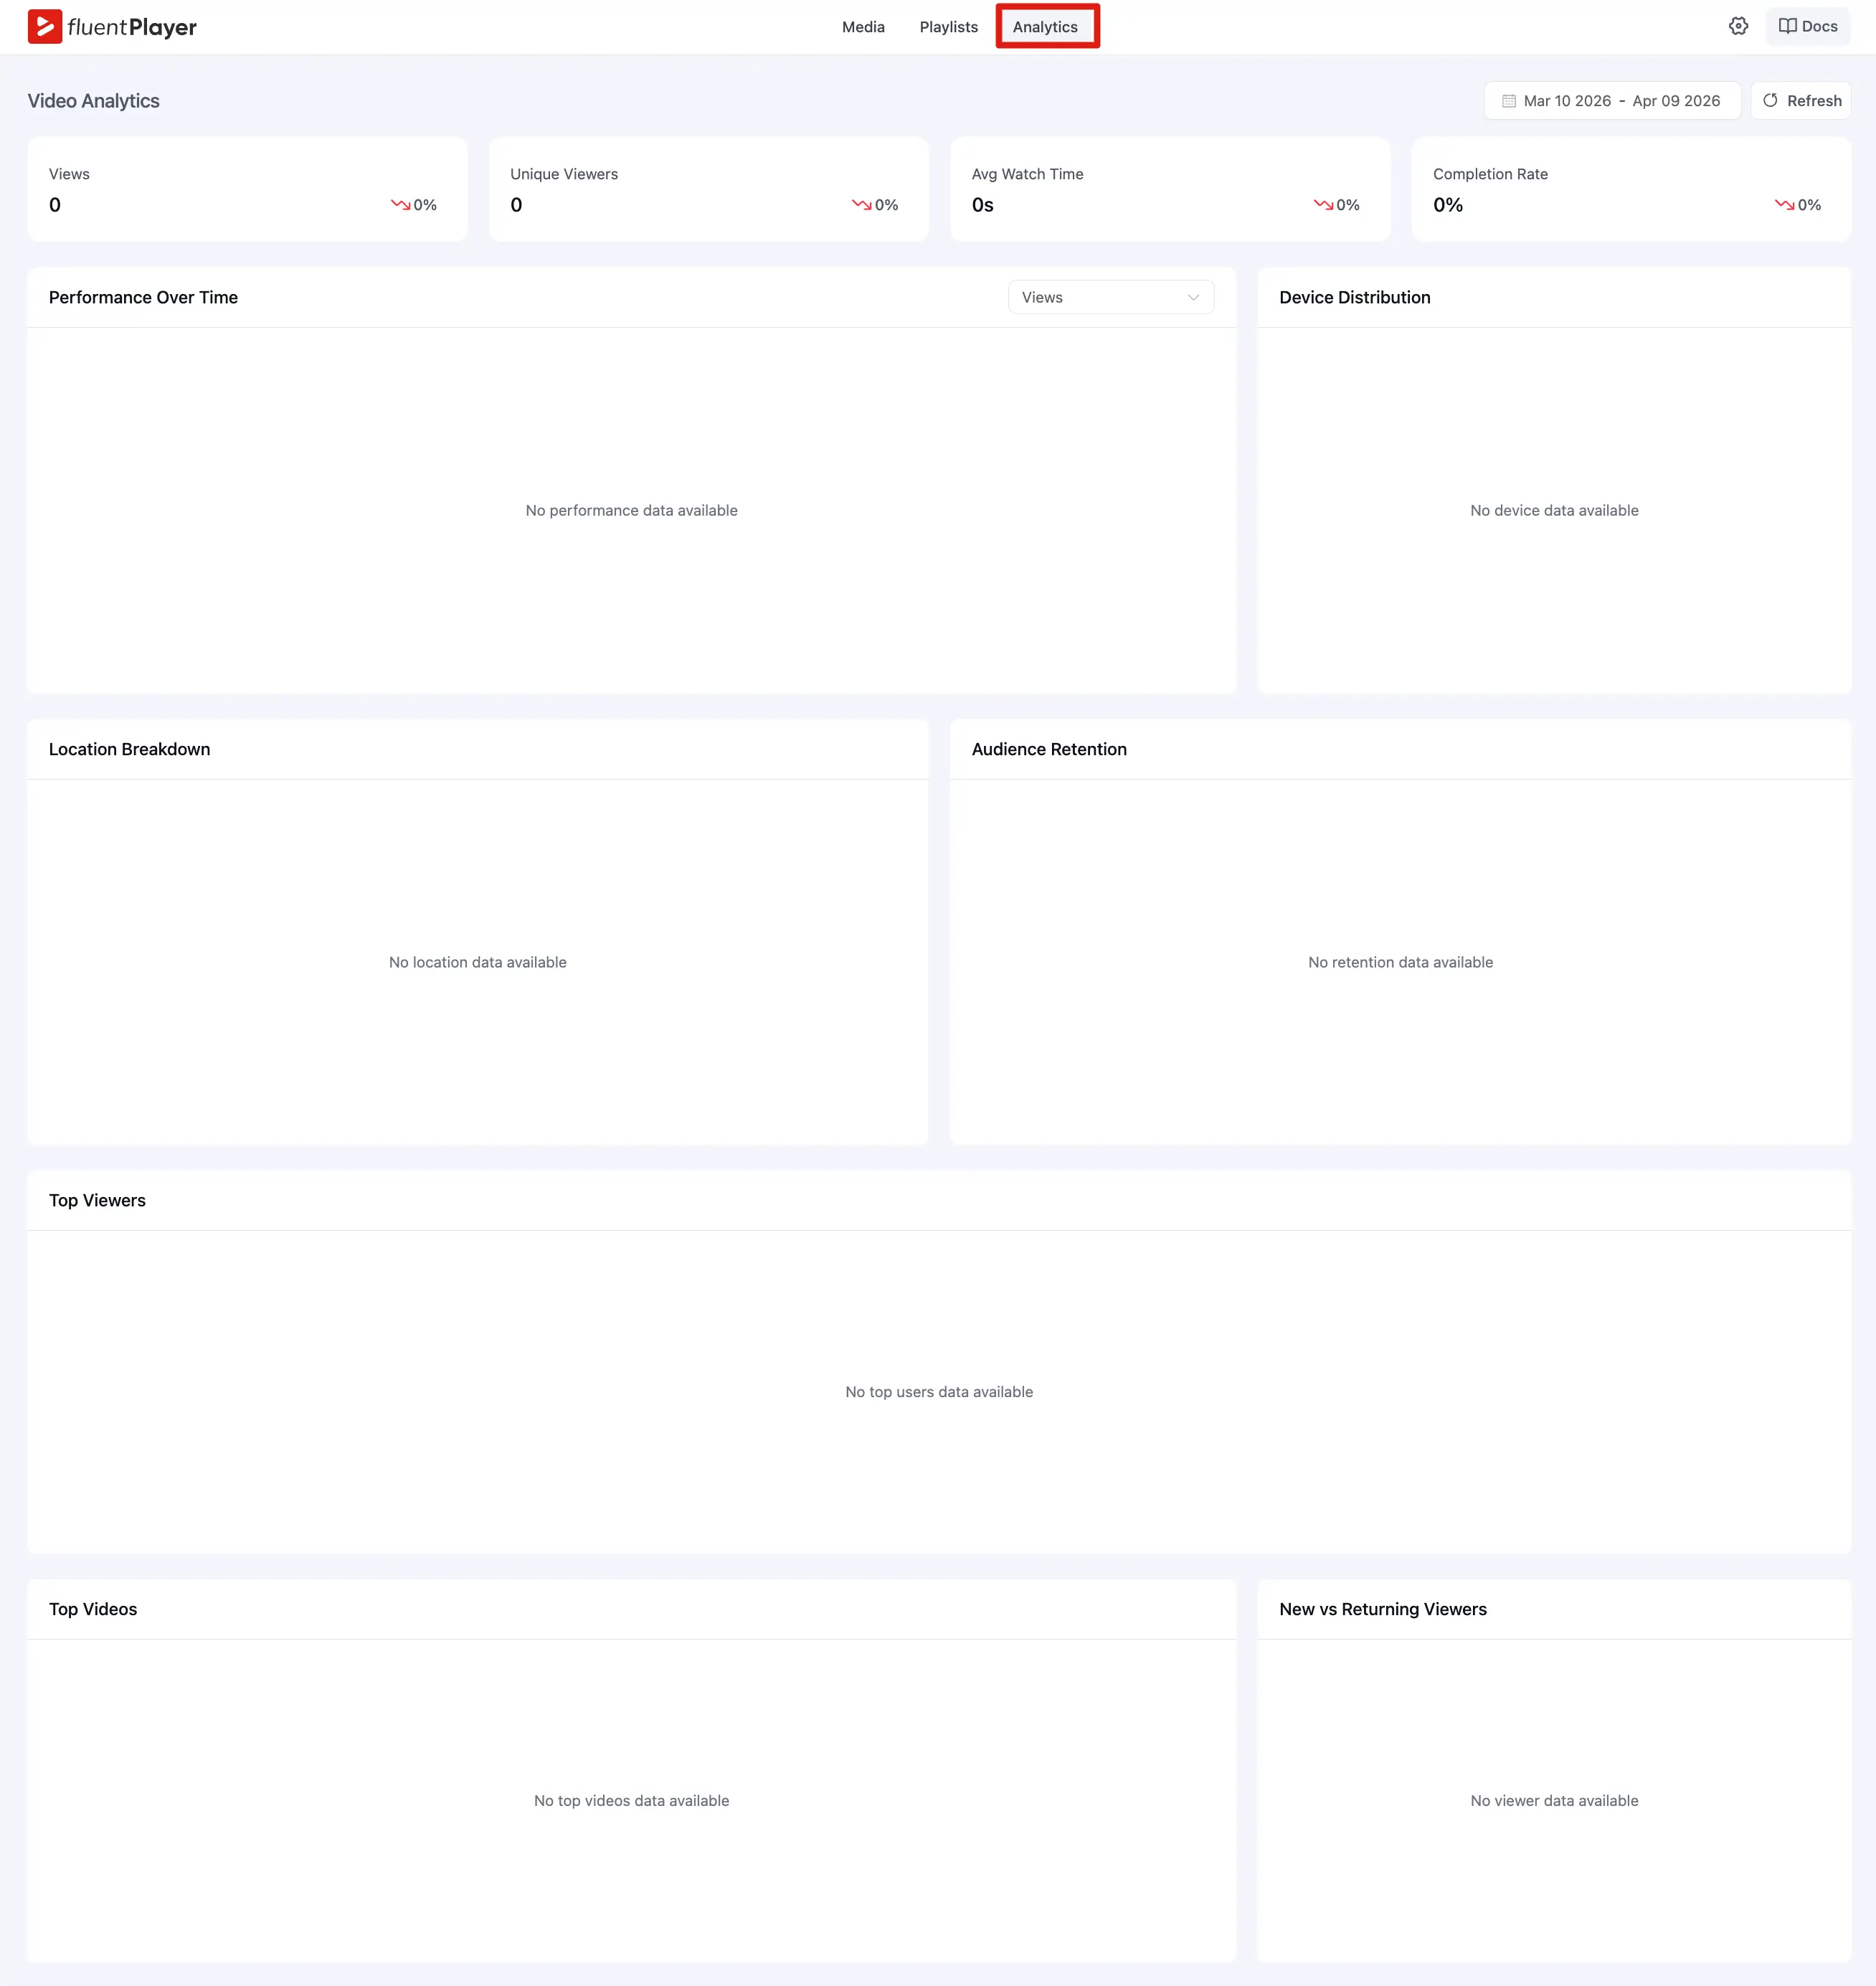
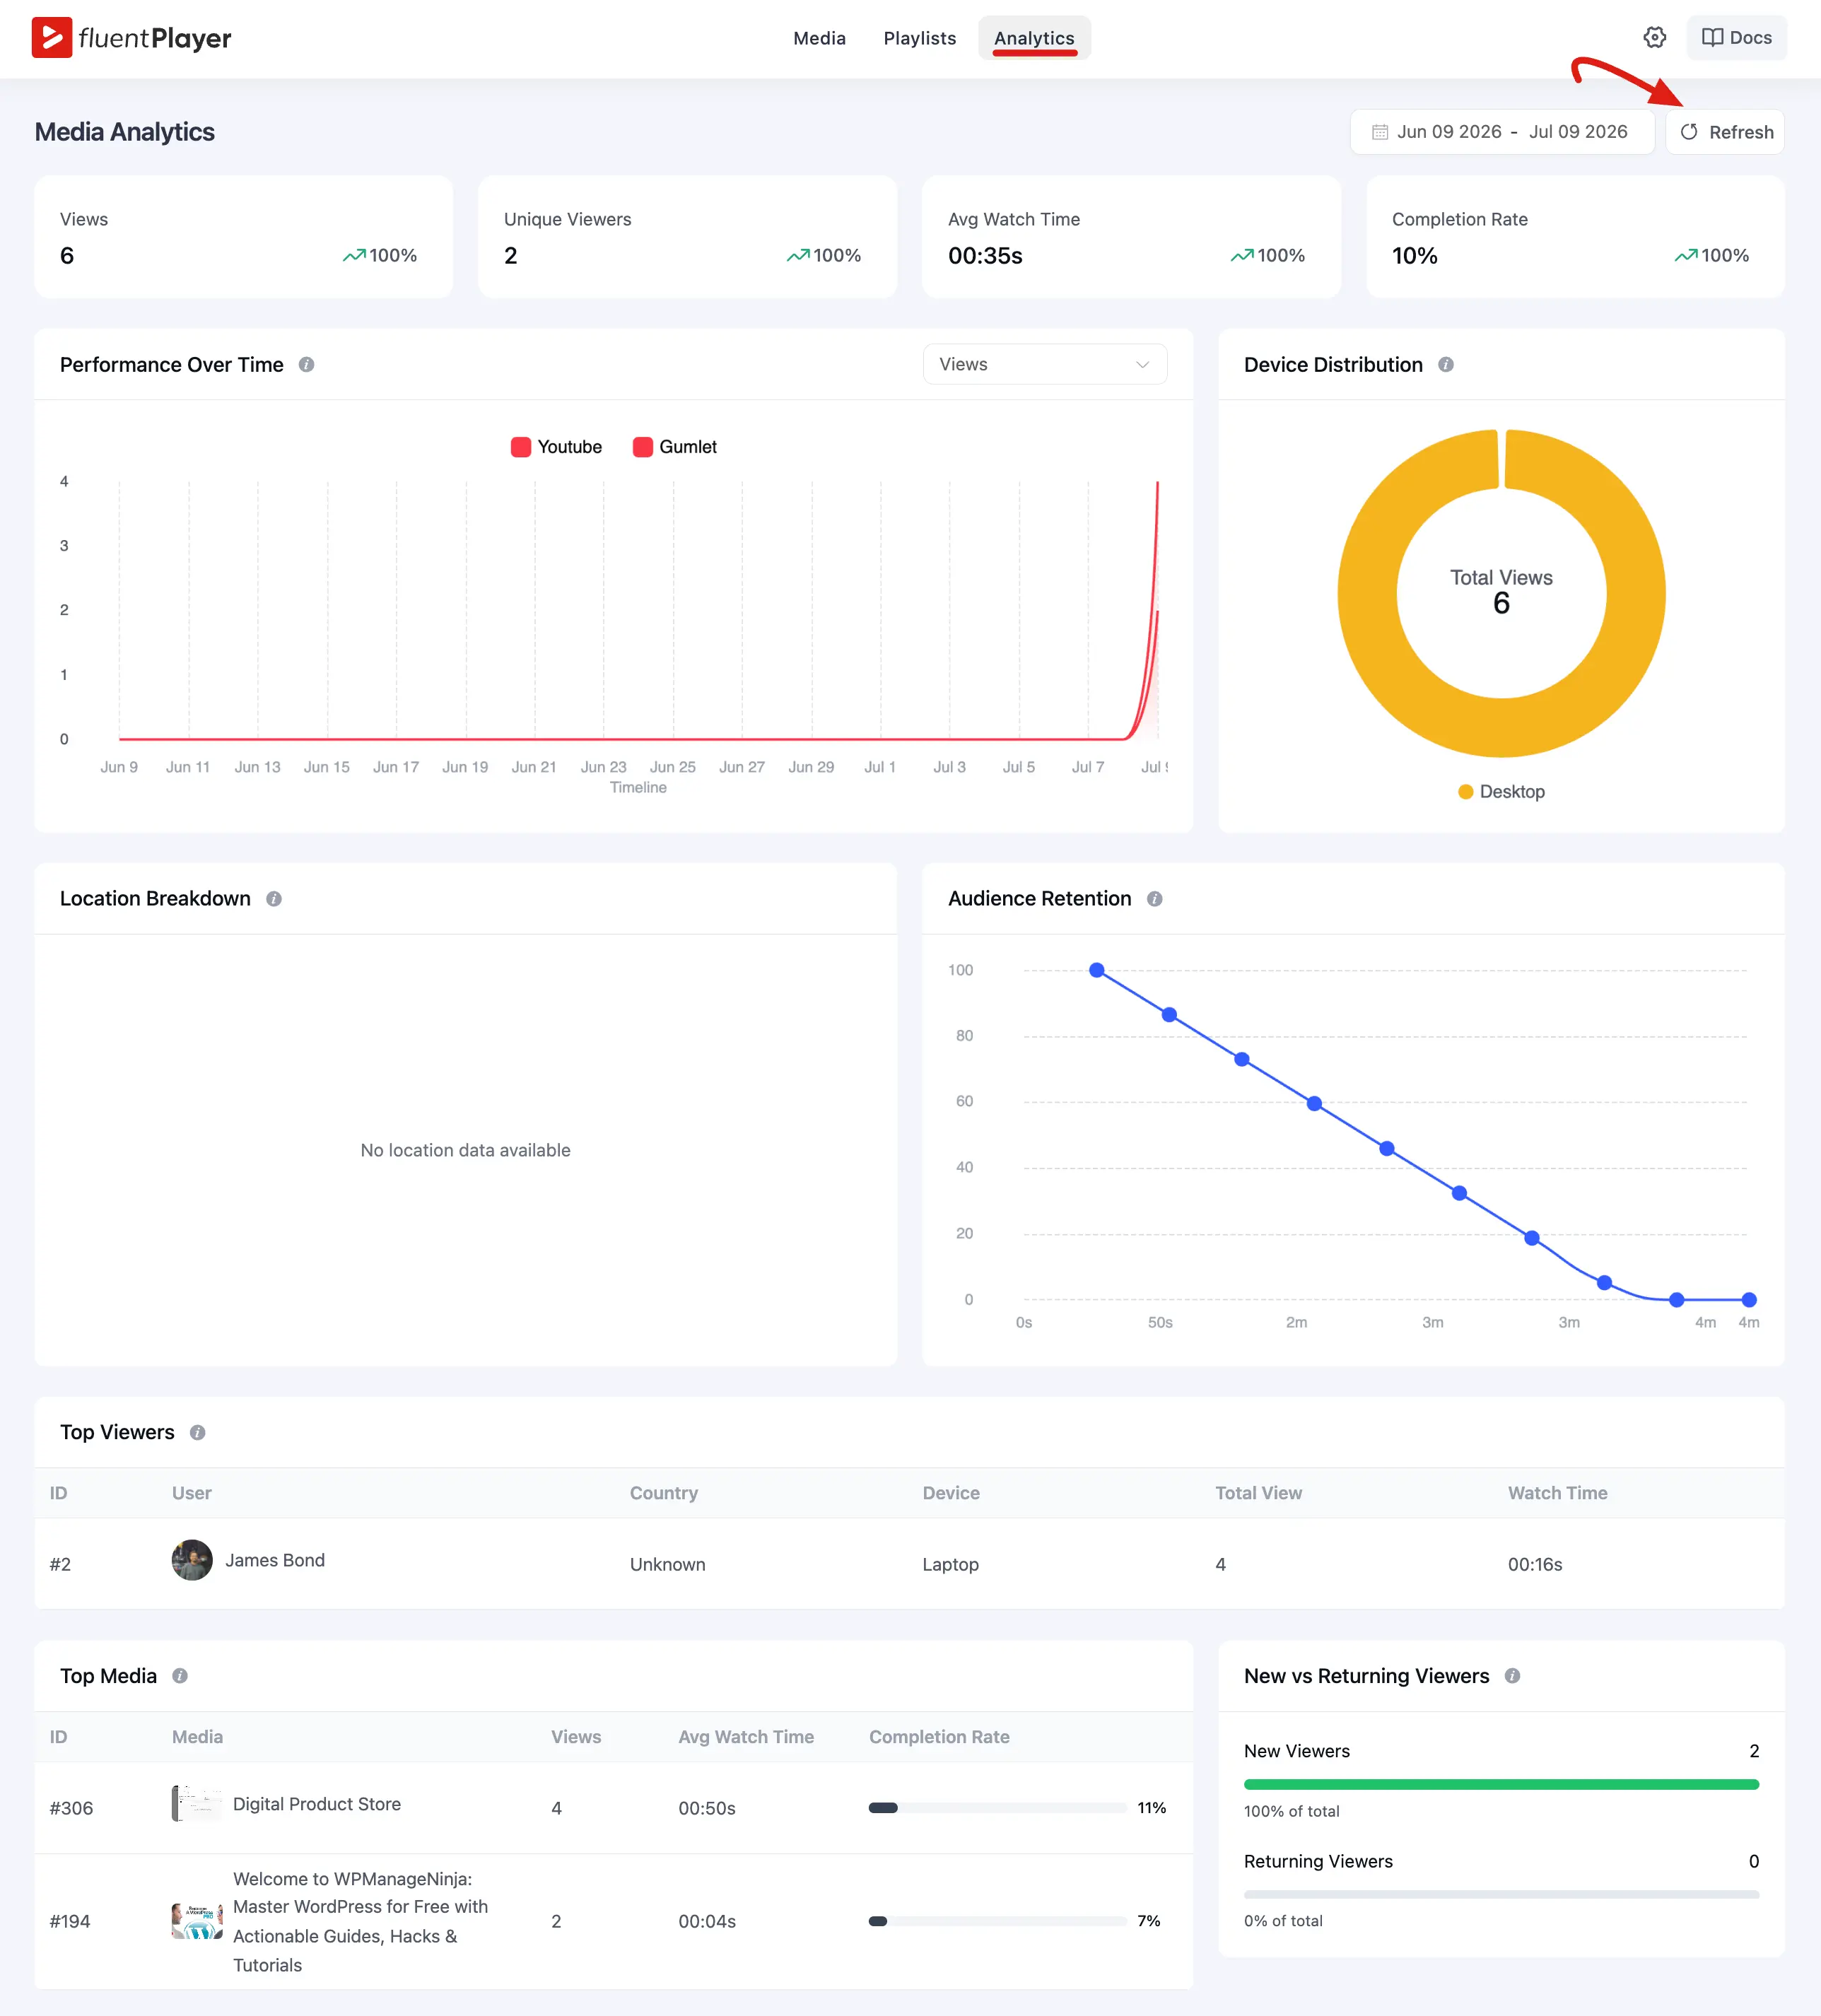
update Built-In Analytics (Pro) doc

diff --git a/guide/integrations/analytics.md b/guide/integrations/analytics.md
@@ -1,6 +1,6 @@
 # Built-In Analytics (Pro)
 
-FluentPlayer Pro includes a powerful, **built-in analytics dashboard** that provides deep insights into how your audience interacts with your videos. Track everything from total plays and watch time to detailed per-video retention and geographic locations—all directly from your WordPress admin.
+FluentPlayer Pro includes a powerful, **built-in analytics dashboard** that provides deep insights into how your audience interacts with your videos. Track everything from total plays and watch time to detailed per-video retention and geographic locations all directly from your WordPress admin.
 
 ::: info Pro feature
 Built-in analytics is a **FluentPlayer Pro** feature, so you need to have **FluentPlayer Pro** installed and active to use it.
@@ -39,23 +39,23 @@ The dashboard serves as your central command center for video data. It is divide
  * **Device Distribution:** A breakdown of whether your audience is watching on mobile, desktop, or tablet devices.
  * **Location Breakdown:** A geographic map and list showing where in the world your viewers are located.
  * **Audience Retention:** A specialized chart that shows the percentage of viewers remaining at every second of the video, helping you find where people drop off.
- * **Top Videos & Top Viewers:** Ranked lists identifying your most popular content and your most active logged in users.
+ * **Top Media & Top Viewers:** Ranked lists identifying your most popular content and your most active logged in users.
  * **New vs. Returning Viewers:** A comparison chart showing how much of your traffic is from first time watchers versus loyal fans.
 
 ![Analytics Dasboard](/guide/public/integrations/analytics/analytics-dashboard-2.webp)
 
-## Per-user insights
+## Per-user Insights
 
 For **logged-in viewers**, FluentPlayer can show per-user detail beyond the aggregate dashboard. From **Top Viewers**, you can drill into an individual viewer to see their activity — the videos they watched, how far they got, and their retention. This is useful for course creators who want to see exactly how a specific student is progressing.
 
 Anonymous (logged-out) viewers are still counted in totals and unique-viewer metrics, but without a per-person profile.
 
-## Data retention & cleanup
+## Data Retention & Cleanup
 
 Video tracking generates a lot of rows over time. To keep your database fast:
 
-- **Auto Cleanup Analytics Data** — when enabled in [Settings → Analytics](/analytics), FluentPlayer automatically deletes stats older than the **Retention (days)** you set (for example, `30`).
-- **Orphan cleanup** — when you delete a media item, its associated analytics records are cleaned up as well, so you do not accumulate stats for videos that no longer exist.
+- **Auto Cleanup Analytics Data**: When enabled in [Settings → Analytics](/analytics), FluentPlayer automatically deletes stats older than the **Retention (days)** you set (for example, `30`).
+- **Orphan cleanup**: When you delete a media item, its associated analytics records are cleaned up as well, so you do not accumulate stats for videos that no longer exist.
 
 ## Analytics vs Google Analytics
 